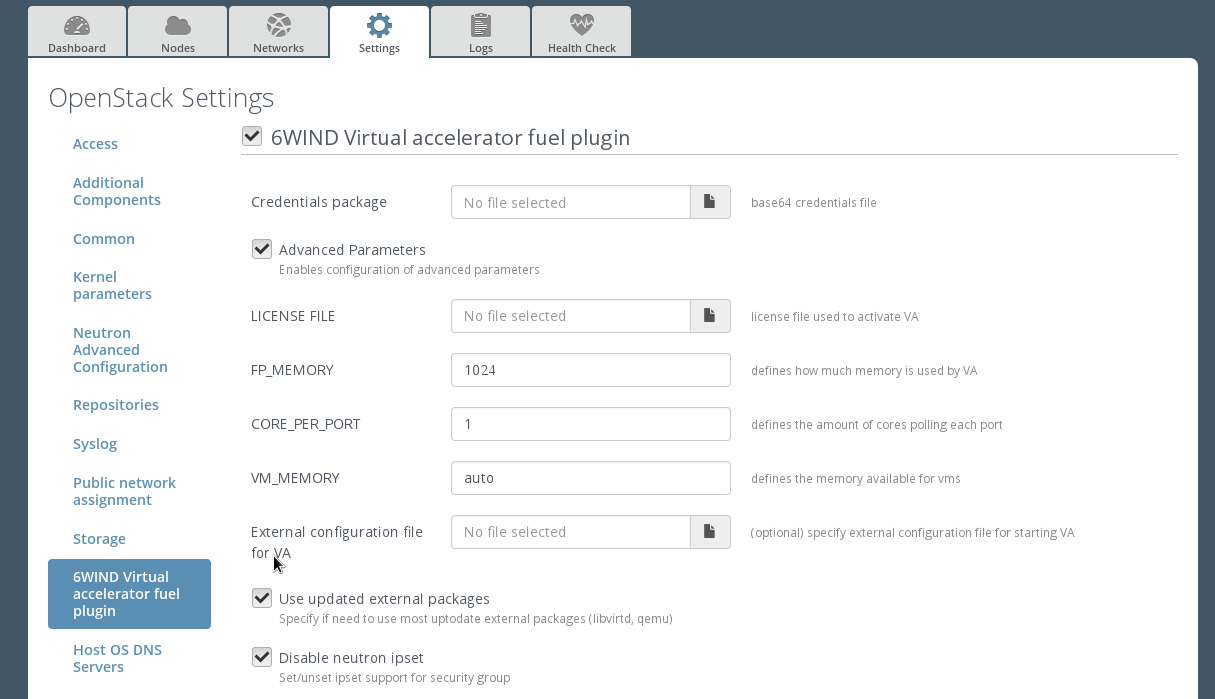
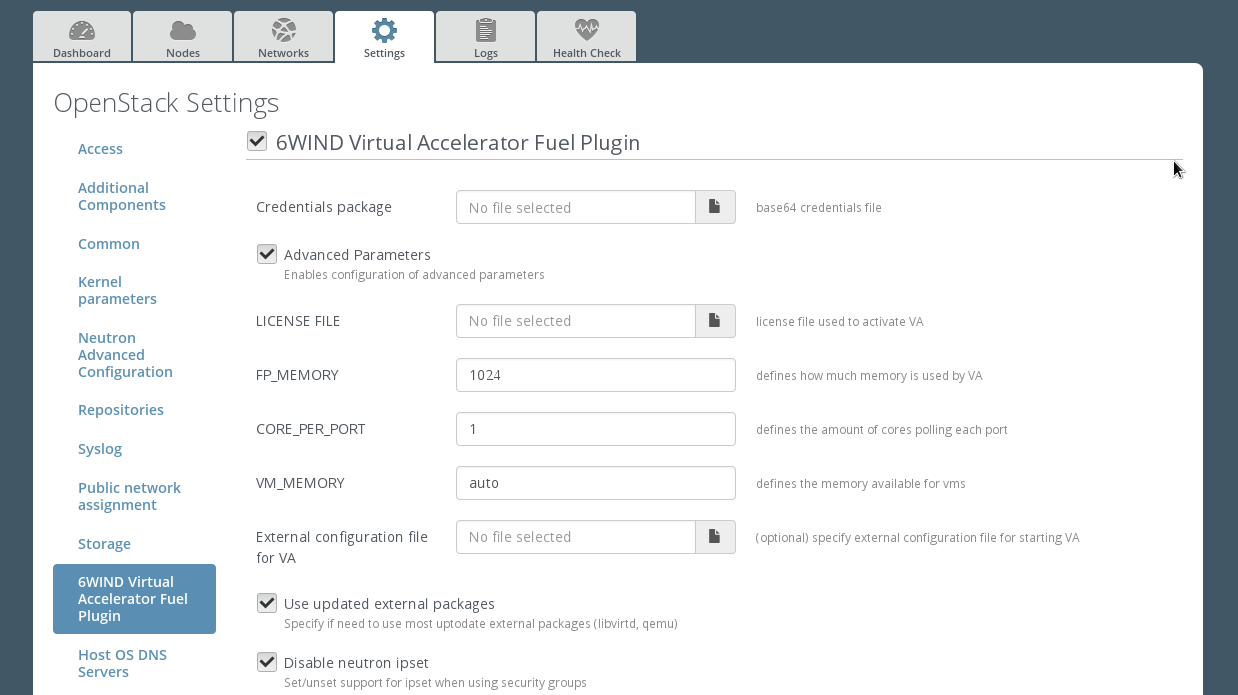
6wind-virtual-accelerator-plugin: va typo
Update the typos of virtual accelerator -> Virtual Accelerator.

diff --git a/doc/source/conf.py b/doc/source/conf.py
@@ -49,7 +49,7 @@ source_suffix = '.rst'
 master_doc = 'index'
 
 # General information about the project.
-project = u'The 6WIND virtual accelerator plugin for Fuel'
+project = u'The 6WIND Virtual Accelerator plugin for Fuel'
 copyright = u'2016, 6WIND SA.'
 
 # The version info for the project you're documenting, acts as replacement for
@@ -202,7 +202,7 @@ latex_elements = {
 # (source start file, target name, title,
 #  author, documentclass [howto, manual, or own class]).
 latex_documents = [
-  ('index', 'fuel-plugin-6wind-va.tex', u'The 6WIND virtual accelerator Plugin for Fuel Documentation',
+  ('index', 'fuel-plugin-6wind-va.tex', u'The 6WIND Virtual Accelerator Plugin for Fuel Documentation',
    u'6WIND SA', 'manual'),
 ]
 
@@ -236,7 +236,7 @@ latex_elements = { 'classoptions': ',openany,oneside', 'babel' : '\\usepackage[e
 # One entry per manual page. List of tuples
 # (source start file, name, description, authors, manual section).
 man_pages = [
-    ('index', 'fuel-plugin-6wind-va', u'Guide to the 6WIND virtual accelerator Plugin ver. 1.0-1.0.0-1 for Fuel',
+    ('index', 'fuel-plugin-6wind-va', u'Guide to the 6WIND Virtual Accelerator Plugin ver. 1.0-1.0.0-1 for Fuel',
      [u'6WIND SA'], 1)
 ]
 
@@ -250,8 +250,8 @@ man_pages = [
 # (source start file, target name, title, author,
 #  dir menu entry, description, category)
 texinfo_documents = [
-  ('index', 'fuel-plugin-6wind-va', u'The 6WIND virtual accelerator Plugin for Fuel Documentation',
-   u'6WIND SA', 'fuel-plugin-6wind-va', 'The 6WIND virtual accelerator Plugin for Fuel Documentation',
+  ('index', 'fuel-plugin-6wind-va', u'The 6WIND Virtual Accelerator Plugin for Fuel Documentation',
+   u'6WIND SA', 'fuel-plugin-6wind-va', 'The 6WIND Virtual Accelerator Plugin for Fuel Documentation',
    'Miscellaneous'),
 ]
 
@@ -276,7 +276,7 @@ pdf_inline_footnotes = True
 # -- Options for Epub output ----------------------------------------------
 
 # Bibliographic Dublin Core info.
-epub_title = u'The 6WIND virtual accelerator Plugin for Fuel'
+epub_title = u'The 6WIND Virtual Accelerator Plugin for Fuel'
 epub_author = u'6WIND SA'
 epub_publisher = u'6WIND SA'
 epub_copyright = u'2016, 6WIND SA'

diff --git a/doc/source/user-guide.rst b/doc/source/user-guide.rst
@@ -4,21 +4,21 @@ User Guide
 This section provides a deeper explanation of plugin parameters and a description
 of required steps to verify that everything is working fine after deployment.
 
-Note that this User Guide provides information on 6WIND virtual accelerator
-plugin for Fuel (and not on the 6WIND virtual accelerator software itself).
+Note that this User Guide provides information on 6WIND Virtual Accelerator
+plugin for Fuel (and not on the 6WIND Virtual Accelerator software itself).
 `Contact 6WIND <http://www.6wind.com/company-profile/contact-us/>`_
-to obtain more details on how to retrieve the virtual accelerator software and
+to obtain more details on how to retrieve the Virtual Accelerator software and
 its documentation.
 
-When configuring the 6WIND virtual accelerator Fuel plugin, you have to provide
-credentials for virtual accelerator software download.
-The plugin will then install and run the virtual accelerator using its default
+When configuring the 6WIND Virtual Accelerator Fuel plugin, you have to provide
+credentials for Virtual Accelerator software download.
+The plugin will then install and run the Virtual Accelerator using its default
 configuration values.
 
-Configuring 6WIND virtual accelerator parameters
+Configuring 6WIND Virtual Accelerator parameters
 ------------------------------------------------
 
-The 6WIND virtual accelerator plugin makes possible to modify these default
+The 6WIND Virtual Accelerator plugin makes possible to modify these default
 configuration parameters before deployment.
 In order to do this you need to activate the **Advanced parameters** checkbox
 in the 6WIND Virtual Accelerator Fuel plugin section in the Web UI Settings tab.
@@ -28,18 +28,18 @@ in the 6WIND Virtual Accelerator Fuel plugin section in the Web UI Settings tab.
 
 At this point some additional fields will show up and you will be able to edit
 with your desired values.
-Please contact 6WIND support team or refer to 6WIND virtual accelerator documentation
+Please contact 6WIND support team or refer to 6WIND Virtual Accelerator documentation
 for more information on the meaning of these fields.
 
 
-If you already have a virtual accelerator configuration file,
+If you already have a Virtual Accelerator configuration file,
 you can upload it to the nodes having the 6WIND Virtual Accelerator role enabled.
-Note, this file will replace the default virtual accelerator configuration file
+Note, this file will replace the default Virtual Accelerator configuration file
 and overload all the defined configuration paramaters.
 
 It is **strongly recommended** to provide a license file if you have one.
 Without license the plugin will still correclty install the
-6WIND virtual accelerator but it will run in evaluation mode (48 hours).
+6WIND Virtual Accelerator but it will run in evaluation mode (48 hours).
 At the end of the evaluation period you will experience significant performance
 degradation and loss of connectivity for your instances since there will be
 nomore any hugepages backing.
@@ -48,12 +48,12 @@ Use updated libvirt and qemu packages
 -------------------------------------
 
 As briefly described in the installation section, in order to correctly spawn
-virtual machines using the accelerated network stack 6WIND virtual accelerator
+virtual machines using the accelerated network stack 6WIND Virtual Accelerator
 provides, the compute nodes need to run recent versions of libvirt and qemu
 packages.
 
 
-By default the 6WIND virtual accelerator Fuel plugin retrieves and installs
+By default the 6WIND Virtual Accelerator Fuel plugin retrieves and installs
 its updated libvirt and qemu packages from a remote repository maintained by 6WIND.
 It is possible to force the plugin to keep the default libvirt and qemu packages
 provided by the Linux distribution.
@@ -61,15 +61,15 @@ provided by the Linux distribution.
 
 To do this simply unselect the **Use updated external packages** checkbox.
 Note, default libvirt and qemu packages on MOS 7.0 do not have all the features
-required for proper 6WIND virtual accelerator integration. Thus we strongly
+required for proper 6WIND Virtual Accelerator integration. Thus we strongly
 advise to keep the **Use updated external packages** enabled.
 
 Sanity checks after deployment
 ------------------------------
 
 The installation section of this document described how to correctly start a
-Fuel deployment using the 6WIND virtual accelerator plugin.
-At the end of this process the 6WIND virtual accelerator and its dependent
+Fuel deployment using the 6WIND Virtual Accelerator plugin.
+At the end of this process the 6WIND Virtual Accelerator and its dependent
 components should be all up and running.
 
 As first step make sure that the system uses the proper libvirt and qemu
@@ -87,10 +87,10 @@ versions.
 
         aptitude show qemu-system-x86 | grep Version
 
-The next step is checking that the 6WIND virtual accelerator software and
+The next step is checking that the 6WIND Virtual Accelerator software and
 its Openstack extensions have been correctly installed.
 
-#. Check 6WIND virtual accelerator package status (should be **State: installed**)
+#. Check 6WIND Virtual Accelerator package status (should be **State: installed**)
 
     ::
 
@@ -123,7 +123,7 @@ To do that please refer to `6WIND Openstack extensions official documentation <h
 Known issues
 ============
 
-The current implementation of the 6WIND virtual accelerator plugin uses a credentials
+The current implementation of the 6WIND Virtual Accelerator plugin uses a credentials
 package in base64 format for 6WIND software download.
 This behavior should be replaced using a regular credentials package instead of
 its base64 encoding.

diff --git a/doc/source/installation.rst b/doc/source/installation.rst
@@ -6,16 +6,16 @@ Prerequisites
 
 This guide assumes that you have `installed Fuel <https://docs.mirantis.com/openstack/fuel/fuel-7.0/user-guide.html>`_
 and all the nodes of your future environment are discovered and functional.
-Note, the 6WIND virtual accelerator Fuel plugin will download virtual
+Note, the 6WIND Virtual Accelerator Fuel plugin will download virtual
 accelerator packages from a remote repository. Make sure that nodes can correctly
 reach Internet.
 
-To correctly deploy the 6WIND virtual accelerator Fuel plugin you will need
+To correctly deploy the 6WIND Virtual Accelerator Fuel plugin you will need
 a credentials package (in base64 format).
 
 If you have already purchased 6WIND software you should have this package,
 otherwise contact 6WIND support team.
-On the other hand, if you just want to evaluate the 6WIND virtual accelerator
+On the other hand, if you just want to evaluate the 6WIND Virtual Accelerator
 you still need to `contact 6WIND <http://www.6wind.com/company-profile/contact-us/>`_.
 
 Requirements
@@ -27,7 +27,7 @@ Verify this typing the following command:
 
         fuel --version
 
-In order to correctly install the 6WIND virtual accelerator plugin on Fuel
+In order to correctly install the 6WIND Virtual Accelerator plugin on Fuel
 compute(s) the following requirements are mandatory:
 
 #.   Use KVM as hypervisor virtualization driver
@@ -41,7 +41,7 @@ instead of the default Fuel setup that puts this interface on the same used
 for pxe and management.
 Support for VxLAN and for bridged VLAN will be available in future releases.
 
-The 6WIND virtual accelerator needs qemu and libvirt supporting vhostuser and
+The 6WIND Virtual Accelerator needs qemu and libvirt supporting vhostuser and
 multiqueue features to correclty run its fast packet processing stack.
 In particular on the compute nodes the following packages are needed:
 
@@ -54,10 +54,10 @@ For this reason the default behavior for the plugin is to retrieve the
 stages of deployment.
 
 
-Installing 6WIND virtual accelerator Plugin
+Installing 6WIND Virtual Accelerator Plugin
 -------------------------------------------
 
-#.  Download 6WIND virtual accelerator plugin from the `Fuel Plugins Catalog <https://software.mirantis.com/download-mirantis-openstack-fuel-plug-ins/>`_.
+#.  Download 6WIND Virtual Accelerator plugin from the `Fuel Plugins Catalog <https://software.mirantis.com/download-mirantis-openstack-fuel-plug-ins/>`_.
 #.  Copy the downloaded rpm to the Fuel Master node:
     ::
 
@@ -78,7 +78,7 @@ Installing 6WIND virtual accelerator Plugin
     ..
 
 
-Configuring 6WIND virtual accelerator Plugin
+Configuring 6WIND Virtual Accelerator Plugin
 --------------------------------------------
 
 #.  First you have to `create environment <https://docs.mirantis.com/openstack/fuel/fuel-7.0/user-guide.html#create-a-new-openstack-environment>`_ in Fuel Web UI.
@@ -92,7 +92,7 @@ Configuring 6WIND virtual accelerator Plugin
        :width: 80%
 
 #.  Please select Neutron networking.
-    The 6WIND virtual accelerator supports only VLAN segmentation.
+    The 6WIND Virtual Accelerator supports only VLAN segmentation.
 
     .. image:: images/network.png
        :width: 80%

diff --git a/spec/spec-1.0.rst b/spec/spec-1.0.rst
@@ -5,11 +5,11 @@
  http://creativecommons.org/licenses/by/3.0/legalcode
 
 ======================================================
-Fuel Plugin for 6WIND virtual accelerator installation
+Fuel Plugin for 6WIND Virtual Accelerator installation
 ======================================================
 
-The Fuel plugin for 6WIND virtual accelerator allows to install and integrate
-the virtual accelerator on desired nodes (compute) running Mirantis Openstack 7.0.
+The Fuel plugin for 6WIND Virtual Accelerator allows to install and integrate
+the Virtual Accelerator on desired nodes (compute) running Mirantis Openstack 7.0.
 
 This plugin uses the Fuel pluggable architecture and it must be compatible with
 (at least) the version 7.0 of Mirantis OpenStack.
@@ -23,7 +23,7 @@ Proposed change
 ===============
 
 Implement a Fuel plugin which will perform all the necessary steps to install
-and configure Mirantis OpenStack nodes to use the 6WIND virtual accelerator.
+and configure Mirantis OpenStack nodes to use the 6WIND Virtual Accelerator.
 
 Alternatives
 ------------
@@ -95,12 +95,12 @@ Work Items
   metadata)
 * Implement puppet modules with the following functions:
 
- - Retrieve 6WIND virtual accelerator software from repository
+ - Retrieve 6WIND Virtual Accelerator software from repository
  - Eventually updates libvirt and qemu Mirantis Openstack packages on compute nodes
- - 6WIND virtual accelerator deployment on selected OpenStack nodes
- - Configure Mirantis Openstack to support 6WIND virtual accelerator
+ - 6WIND Virtual Accelerator deployment on selected OpenStack nodes
+ - Configure Mirantis Openstack to support 6WIND Virtual Accelerator
 
-* Test 6WIND virtual accelerator plugin
+* Test 6WIND Virtual Accelerator plugin
 * Create Documentation
 
 
@@ -131,4 +131,4 @@ References
 ==========
 
 * Fuel 7.0 Plug-in Guide https://docs.mirantis.com/openstack/fuel/fuel-7.0/plugin-dev.html
-* 6WIND virtual accelerator product info http://www.6wind.com/products/6wind-virtual-accelerator/
+* 6WIND Virtual Accelerator product info http://www.6wind.com/products/6wind-virtual-accelerator/

diff --git a/doc/source/introduction.rst b/doc/source/introduction.rst
@@ -1,14 +1,14 @@
 Introduction
 ============
 
-This document contains instructions for installing and configuring 6WIND virtual
-accelerator plugin for Fuel.
+This document contains instructions for installing and configuring 6WIND Virtual
+Accelerator plugin for Fuel.
 
 Key terms, acronyms and abbreviations
 -------------------------------------
 
 +---------------------------+---------------------------+
-| 6WIND virtual accelerator |                           |
+| 6WIND Virtual Accelerator |                           |
 |                           |                           |
 +---------------------------+---------------------------+
 | VA                        | 6WIND Virtual Accelerator |
@@ -129,5 +129,5 @@ Licensing information
 ---------------------
 
 +---------------------------+------------+
-| 6WIND virtual accelerator | Commercial |
+| 6WIND Virtual Accelerator | Commercial |
 +---------------------------+------------+

diff --git a/doc/source/index.rst b/doc/source/index.rst
@@ -1,6 +1,6 @@
 .. _fuel-plugin-6wind-virtual-accelerator:
 
-Guide to the 6WIND virtual accelerator plugin for Fuel 7.0
+Guide to the 6WIND Virtual Accelerator plugin for Fuel 7.0
 ==========================================================
 
 .. toctree::

diff --git a/doc/source/appendix.rst b/doc/source/appendix.rst
@@ -1,4 +1,4 @@
 Appendix
 ========
 
-#.  `6WIND virtual accelerator overview <http://www.6wind.com/products/6wind-virtual-accelerator/>`_
+#.  `6WIND Virtual Accelerator overview <http://www.6wind.com/products/6wind-virtual-accelerator/>`_
